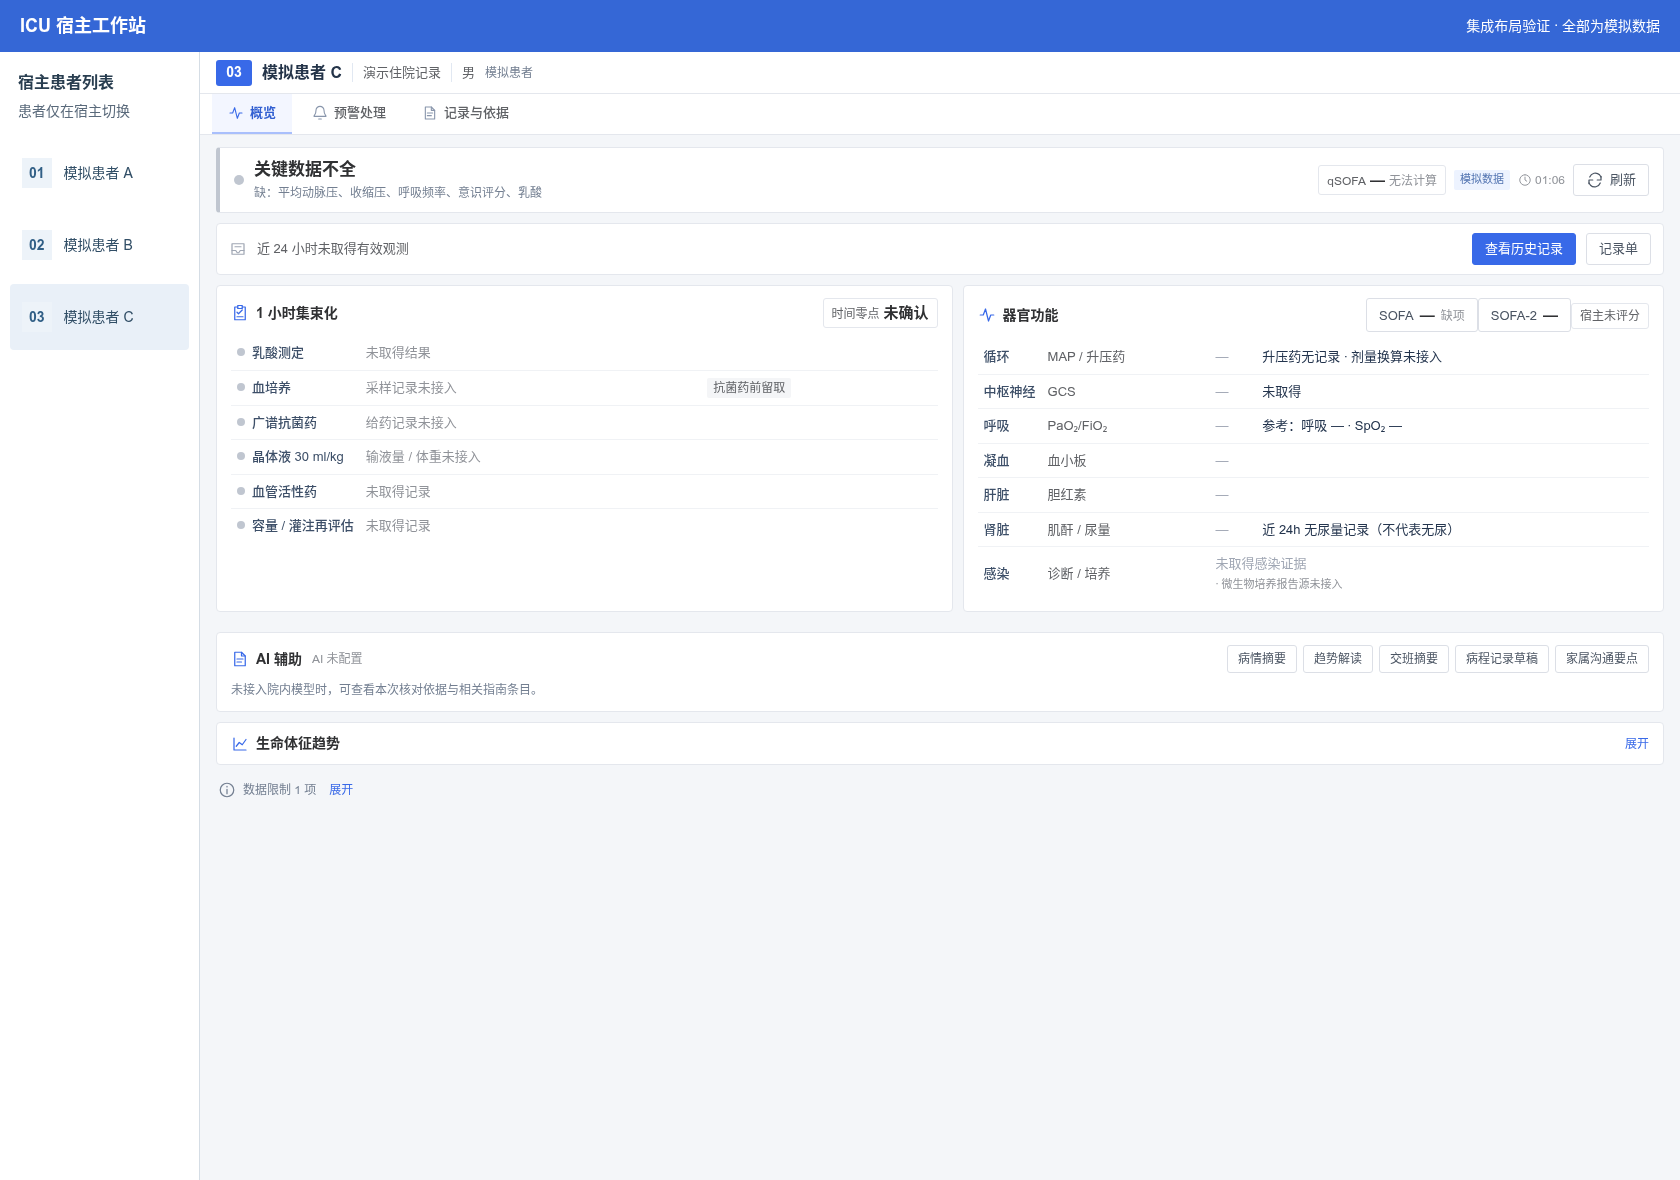
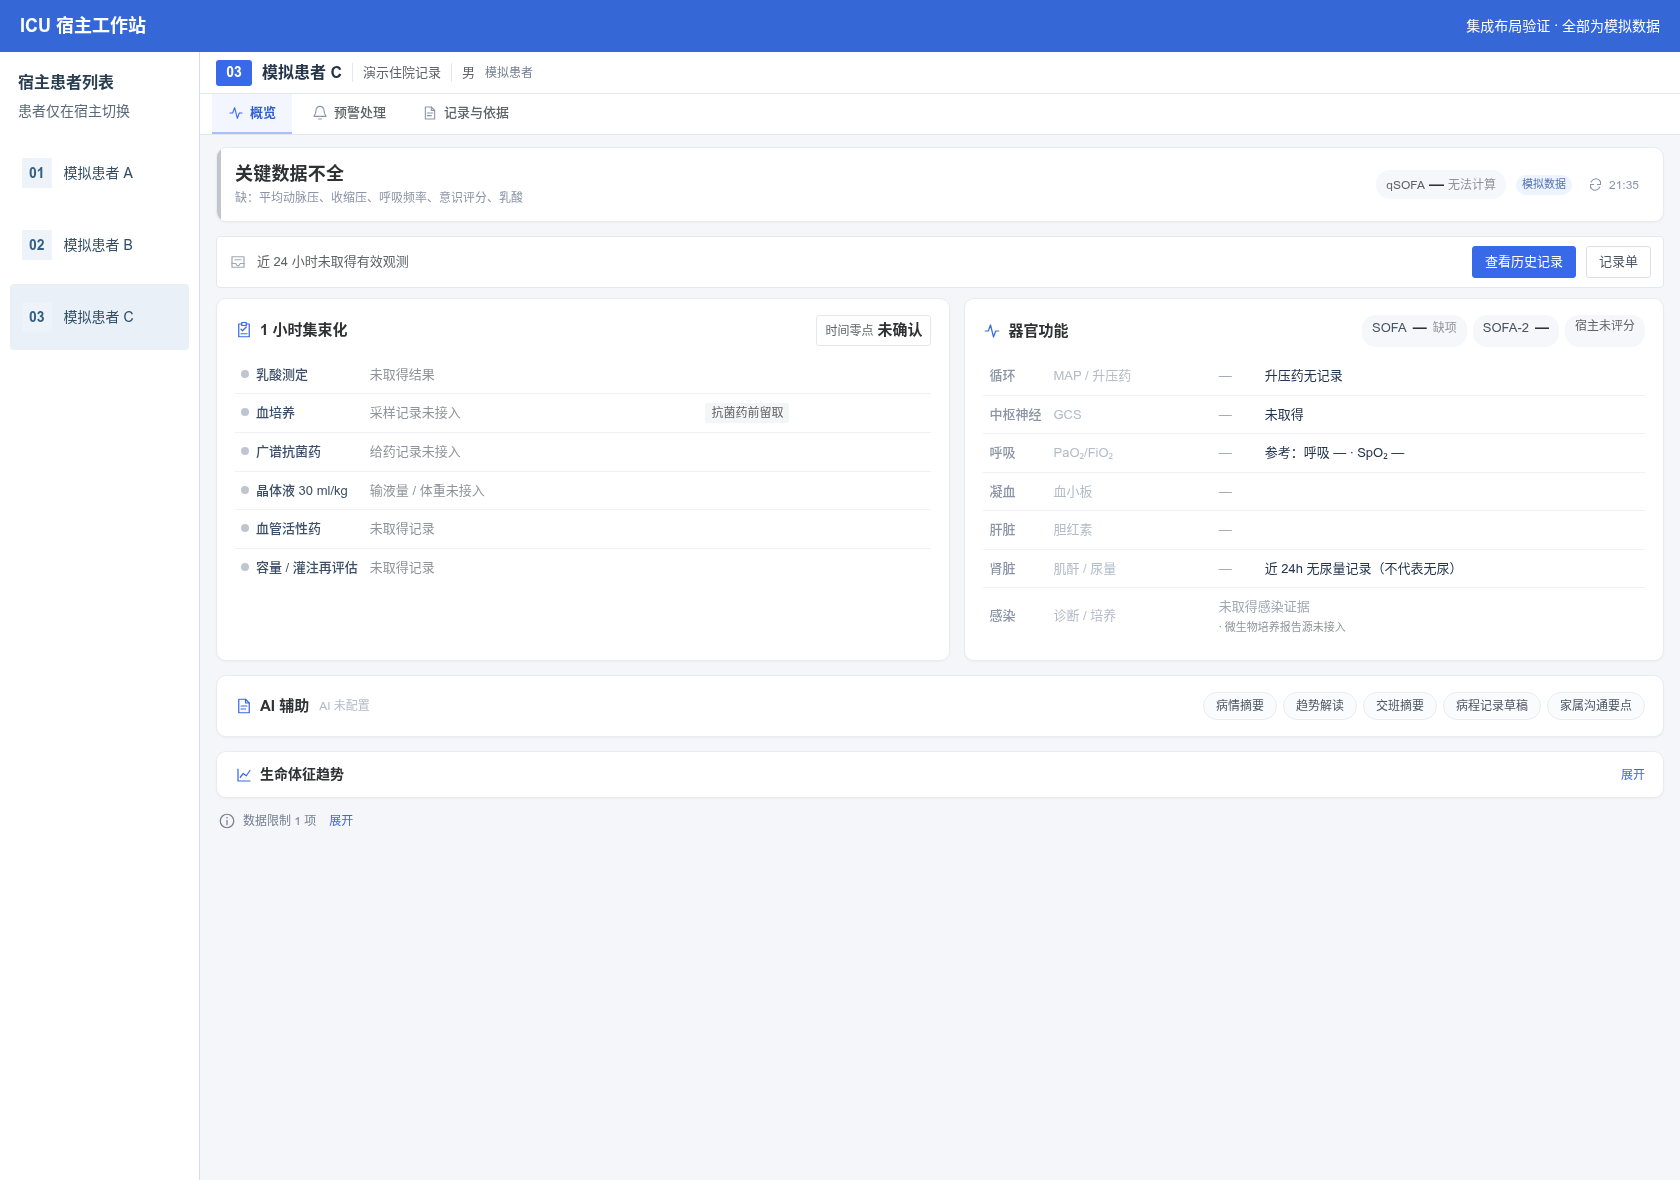
概览页视觉减负：标题只列前 3 项异常、去掉重复的 ICU-05 头部标签、刷新合并为图标；指标卡去掉常规时间脚注（仅超 60 分钟显示）、升压药短句、白底细色条；Bundle 表格去掉单元格时间与截止时间（移入悬停提示）；器官功能/AI 卡片降噪；统一圆角、留白与弱化次要文字

diff --git a/frontend/src/sepsis-panel.ts b/frontend/src/sepsis-panel.ts
@@ -17,7 +17,7 @@ export interface SepsisStatus {
 }
 interface Tile {
   code: string; label: string; unit: string; value: number | null; time: string | null; level: Level; word: string;
-  delta: number | null; spark: string; sub: string; evidence: Evidence | null; candidate: Evidence | null;
+  delta: number | null; spark: string; sub: string; subTip?: string; evidence: Evidence | null; candidate: Evidence | null;
 }
 interface BundleRow { key: string; name: string; state: 'done' | 'warn' | 'none' | 'info'; text: string; time: string | null; hint: string; tip: string; }
 interface OrganRow { system: string; item: string; value: string; level: Level; note: string; evidence: Evidence | null; }
@@ -54,15 +54,13 @@ const units: Record<string, string> = { MAP: 'mmHg', SBP: 'mmHg', LACTATE: 'mmol
         <div><h1>{{ headline }}</h1><p *ngIf="headDetail">{{ headDetail }}</p></div>
       </div>
       <div class="sx-head-side">
-        <span class="sx-chip i5-head" *ngIf="icu05?.available && (icu05!.status === 'septic_shock' || icu05!.status === 'suspected_review')" [attr.data-tone]="icu05!.status === 'septic_shock' ? 'critical' : 'abnormal'">ICU-05 {{ icu05!.statusLabel }}</span>
         <span class="sx-chip" *ngIf="data?.available" [title]="data!.qsofaNote || ''">qSOFA <b>{{ data!.qsofa ?? '—' }}</b><small *ngIf="data!.qsofa !== null">/3</small><small *ngIf="data!.qsofa === null">无法计算</small></span>
         <button class="sx-pending alert" *ngIf="alertTotal" (click)="openAlerts.emit()"><ui-icon name="bell"/>{{ alertTotal }} 条预警待处理</button>
         <button class="sx-pending" *ngIf="taskTotal" (click)="openTasks.emit()"><ui-icon name="clipboard"/>{{ taskTotal }} 项任务待执行</button>
         <span class="sx-chip warn" *ngIf="alertsError" role="status">预警读取失败</span>
         <span class="sx-chip warn" *ngIf="tasksError" role="status">任务读取失败</span>
         <span class="sample-badge" *ngIf="data?.simulated">模拟数据</span>
-        <span class="sx-time" *ngIf="updatedAt"><ui-icon name="clock"/>{{ updatedAt | date:'HH:mm' }}</span>
-        <button (click)="load()" [disabled]="loading" aria-label="刷新数据"><ui-icon name="refresh"/>{{ loading ? '读取中…' : '刷新' }}</button>
+        <button class="sx-refresh" (click)="load()" [disabled]="loading" [class.spin]="loading" aria-label="刷新数据" [title]="loading ? '读取中…' : (updatedAt ? '更新于 ' + (updatedAt | date:'HH:mm') + '，点击刷新' : '刷新')"><ui-icon name="refresh"/><span *ngIf="updatedAt">{{ updatedAt | date:'HH:mm' }}</span></button>
       </div>
     </header>
     <div class="review-state" role="alert" *ngIf="error || (data && !data.available)"><ui-icon name="info"/><strong>数据暂不可用</strong><span>{{ error || data?.message || '请刷新重试' }}</span></div>
@@ -70,12 +68,12 @@ const units: Record<string, string> = { MAP: 'mmHg', SBP: 'mmHg', LACTATE: 'mmol
     <p class="review-inline-error" role="alert" *ngIf="observationsError"><ui-icon name="info"/>{{ observationsError }} <button (click)="load()">重试</button></p>
 
     <section class="sx-vitals" *ngIf="data?.available && hasAnyValue" aria-label="关键指标">
-      <button class="sx-tile" *ngFor="let t of tiles" [attr.data-level]="t.level" [class.candidate]="!t.evidence && t.candidate" (click)="selected = t.evidence || t.candidate" [disabled]="!t.evidence && !t.candidate" [attr.aria-label]="t.label + ' ' + (t.value ?? '无记录')">
+      <button class="sx-tile" *ngFor="let t of tiles" [title]="t.time ? '记录于 ' + (t.time | date:'MM-dd HH:mm') + ' · ' + ago(t.time) : ''" [attr.data-level]="t.level" [class.candidate]="!t.evidence && t.candidate" (click)="selected = t.evidence || t.candidate" [disabled]="!t.evidence && !t.candidate" [attr.aria-label]="t.label + ' ' + (t.value ?? '无记录')">
         <span class="sx-tile-name">{{ t.label }}<em *ngIf="t.word">{{ t.word }}</em><small class="sx-ok" *ngIf="!t.word && t.level === 'normal'">正常</small></span>
         <span class="sx-tile-value"><b>{{ t.value ?? '—' }}</b><small>{{ t.unit }}</small><i class="sx-delta" *ngIf="t.delta !== null && t.delta !== 0">{{ t.delta > 0 ? '↑' : '↓' }}{{ abs(t.delta) }}</i></span>
         <svg class="sx-spark" *ngIf="t.spark" viewBox="0 0 100 24" preserveAspectRatio="none" aria-hidden="true"><path [attr.d]="t.spark"/></svg>
-        <span class="sx-tile-foot"><ng-container *ngIf="t.time">{{ t.time | date:'HH:mm' }} · {{ ago(t.time) }}</ng-container><ng-container *ngIf="!t.time && t.candidate">报告 {{ t.candidate.value }} · 归属未确认</ng-container><ng-container *ngIf="!t.time && !t.candidate">24h 内无有效记录</ng-container></span>
-        <span class="sx-tile-sub" *ngIf="t.sub">{{ t.sub }}</span>
+        <span class="sx-tile-foot" *ngIf="!t.time || stale(t.time)" [class.stale]="t.time"><ng-container *ngIf="t.time">{{ t.time | date:'HH:mm' }} · {{ ago(t.time) }}</ng-container><ng-container *ngIf="!t.time && t.candidate">报告 {{ t.candidate.value }} · 归属未确认</ng-container><ng-container *ngIf="!t.time && !t.candidate">24h 内无有效记录</ng-container></span>
+        <span class="sx-tile-sub" *ngIf="t.sub" [title]="t.subTip || t.sub">{{ t.sub }}</span>
       </button>
     </section>
     <div class="sx-empty-bar" *ngIf="data?.available && !hasAnyValue">
@@ -91,7 +89,7 @@ const units: Record<string, string> = { MAP: 'mmHg', SBP: 'mmHg', LACTATE: 'mmol
           <tr *ngFor="let b of bundle" [attr.data-state]="b.state" [title]="b.tip">
             <th scope="row"><i class="sx-dot"></i>{{ b.name }}</th>
             <td class="sx-b-text">{{ b.text }}</td>
-            <td class="sx-b-time">{{ b.time ? (b.time | date:'HH:mm') + ' · ' + ago(b.time) : '' }}</td>
+            <td class="sx-b-time" [title]="b.time ? ago(b.time) : ''">{{ b.time ? (b.time | date:'HH:mm') : '' }}</td>
             <td class="sx-b-hint"><span *ngIf="b.hint">{{ b.hint }}</span></td>
           </tr>
         </tbody></table>
@@ -294,7 +292,7 @@ export class SepsisPanel implements OnChanges, OnDestroy {
     const flagged = this.tiles.filter(t => t.level === 'critical' || t.level === 'abnormal').sort((a, b) => levelRank[a.level] - levelRank[b.level]);
     if (flagged.length) {
       this.headLevel = flagged[0].level;
-      this.headline = flagged.slice(0, 4).map(t => `${shortName[t.code] || t.label} ${t.value} ${t.word}`.trim()).join(' · ');
+      this.headline = flagged.slice(0, 3).map(t => `${shortName[t.code] || t.label} ${t.value} ${t.word}`.trim()).join(' · ');
     } else if (d.missingFeatures.length) { this.headLevel = 'unknown'; this.headline = '关键数据不全'; }
     else { this.headLevel = 'normal'; this.headline = '主要指标未超出提示阈值'; }
     const missing = d.missingFeatures.map((code) => {
@@ -302,7 +300,7 @@ export class SepsisPanel implements OnChanges, OnDestroy {
       if (code === 'INFECTION_EVIDENCE') return '感染证据';
       return featureLabel(code);
     });
-    this.headDetail = missing.length ? '缺：' + missing.join('、') : flagged.length > 4 ? '另有 ' + (flagged.length - 4) + ' 项异常' : '';
+    this.headDetail = missing.length ? '缺：' + missing.join('、') : flagged.length > 3 ? '另有 ' + (flagged.length - 3) + ' 项异常' : '';
     this.bundle = this.bundleRows(d, latest, candidates, asOf);
     this.organs = this.organRows(d, latest);
     const sofa = this.series('SOFA', 'score', 0, 24, asOf);
@@ -378,7 +376,8 @@ export class SepsisPanel implements OnChanges, OnDestroy {
     let sub = '';
     if (sbpCode) { const s = latest.get(sbpCode) || this.evidenceFromObs(sbpCode); sub = '收缩压 ' + (s ? s.value : '—'); }
     let lacLabel = '';
-    if (base === 'MAP') sub += (sub ? ' · ' : '') + this.vasoText();
+    let subTip = '';
+    if (base === 'MAP') { const v = this.vasoText(); subTip = sub + ' · ' + v; sub += (sub ? ' · ' : '') + this.vasoShort(v); }
     // 13: the ICU-05 initial lactate can differ from the latest one; label both.
     if (code === 'LACTATE' && this.icu05?.gate) {
       const k1 = this.icu05.gate.shock.find(i => i.code === 'K1');
@@ -386,13 +385,19 @@ export class SepsisPanel implements OnChanges, OnDestroy {
     }
     const delta = value !== null && prev !== null && e && pts.at(-1)?.eventTime === e.eventTime ? Math.round((value - prev) * 10) / 10 : null;
     return { code, label: lacLabel || tileName[code] || featureLabel(code), unit, value, time: e?.eventTime || null, level: level(code, value), word: value === null ? '' : direction(code, value),
-      delta, spark: this.sparkPath(pts), sub, evidence: e, candidate: e ? null : candidates.get(code) || null };
+      delta, spark: this.sparkPath(pts), sub, subTip, evidence: e, candidate: e ? null : candidates.get(code) || null };
   }
 
   /**
    * One vasopressor statement for the whole screen: bedside VASOPRESSOR_ACTIVE and the ICU-05 execution sheet (drugExe)
    * are different sources, so a disagreement is shown instead of two contradictory sentences.
    */
+  /** Tile-sized vasopressor wording; the full sentence (drug, source) stays in the tooltip and organ card. */
+  vasoShort(full: string): string {
+    if (full.startsWith('升压药 执行单有记录')) return full.includes('床旁记录为未用') ? '升压药记录不一致' : '升压药有记录';
+    return full.replace(/ · .*$/, '');
+  }
+  stale(t: string) { const a = Date.parse(this.asOf) || Date.now(); return a - Date.parse(t) > 60 * 60000; }
   vasoText(): string {
     const bedside = this.data?.vasopressorActive;
     const s4 = this.icu05?.available ? this.icu05.gate?.organ.find(i => i.code === 'S4') : undefined;
@@ -609,7 +614,7 @@ export class SepsisPanel implements OnChanges, OnDestroy {
           ? maps.map(m => (shortName[m.code] || 'MAP') + ' ' + m.value).join('，')
           : '—',
         level: worstMap?.level || 'none',
-        note: vaso + ' · 剂量换算未接入',
+        note: vaso,
         evidence: worstMap?.evidence || null,
       },
       {

diff --git a/frontend/src/host-clinical-ui.css b/frontend/src/host-clinical-ui.css
@@ -136,3 +136,40 @@ ai-assist-card{display:block;grid-column:1/-1}
 .ai-suggest{display:flex;flex-wrap:wrap;gap:6px;margin-bottom:6px}.ai-suggest button{font-size:12px;padding:2px 10px;min-height:24px;border-radius:12px;background:#f5f7fa;border:1px solid #e4e7ed;color:#4b5565}
 .al-ai{margin-top:6px;padding:8px 10px;border-radius:6px;background:#f8fafc;border:1px solid #edf0f5}.al-ai .ai-body{margin-top:2px}.al-ward{margin:0 0 10px;padding:10px 12px}
 .al-ai-btn{margin-left:14px}
+/* v10 declutter: fewer borders and colours, more whitespace; secondary details move into tooltips. Presentation only. */
+.sx-overview{--soft:#8a94a6;--line:#eef1f5}
+.icu-embed .sx-overview .review-card,.icu-embed .sx-overview .sx-head{border:1px solid #e8ecf2;border-radius:10px;box-shadow:0 1px 2px rgba(31,45,61,.04)}
+.icu-embed .sx-overview .sx-grid{gap:14px}.icu-embed .sx-overview .sx-grid .review-card{padding:16px 18px;margin-bottom:0}.icu-embed .sx-overview>.review-card,.icu-embed .sx-overview>details.review-card{margin-top:14px;margin-bottom:0}
+.sx-overview .review-card-title{margin-bottom:10px}.sx-overview .review-card-title h2{font-size:15px}
+.sx-head{padding:14px 18px;margin-bottom:14px;border-left-width:1px!important;position:relative;overflow:hidden}
+.sx-head::before{content:'';position:absolute;left:0;top:0;bottom:0;width:4px;background:#c0c6d0}.sx-head[data-level=critical]::before{background:var(--crit)}.sx-head[data-level=abnormal]::before{background:var(--abn)}.sx-head[data-level=normal]::before{background:var(--host-blue)}
+.sx-head[data-level=critical],.sx-head[data-level=abnormal]{background:#fff}
+.sx-head-main h1{font-size:18px;letter-spacing:.2px}.sx-head-main p{color:var(--soft)}.sx-level-mark{display:none}
+.sx-head-side{gap:10px}.sx-head .sx-chip{border:0;background:#f5f7fa;border-radius:14px;padding:3px 10px}
+.icu-embed .sx-refresh{border:0;background:transparent;color:var(--soft);padding:4px 6px;font-size:12px;min-height:28px}.icu-embed .sx-refresh:hover:not(:disabled){background:#f3f6ff;color:var(--host-blue)}.sx-refresh ui-icon{width:15px;height:15px}.sx-refresh.spin ui-icon{animation:sxspin 1s linear infinite}@keyframes sxspin{to{transform:rotate(360deg)}}
+.icu-embed .sx-pending{border-radius:14px}.icu-embed .sample-badge{border-radius:10px}
+.sx-vitals{gap:12px;margin-bottom:14px;grid-template-columns:repeat(auto-fit,minmax(140px,1fr))}
+.icu-embed .sx-tile,.icu-embed .sx-tile[data-level=critical],.icu-embed .sx-tile[data-level=abnormal]{min-height:0;padding:12px 14px 10px;gap:4px;background:#fff;border:1px solid #e8ecf2;border-radius:10px;box-shadow:0 1px 2px rgba(31,45,61,.04)}
+.icu-embed .sx-tile[data-level=critical]{background:#fffafa}.sx-tile[data-level=critical]::before,.sx-tile[data-level=abnormal]::before{width:3px;top:12px;bottom:12px;border-radius:0 2px 2px 0}
+.icu-embed .sx-tile:hover:not(:disabled){border-color:#c9d6f5;background:#fff}
+.sx-tile-name{color:var(--soft)}.sx-tile-name em{font-size:12px}.sx-tile-name small.sx-ok{color:#b4bcc8}
+.sx-tile-value b{font-size:30px}.sx-tile-value small{color:#b4bcc8;font-size:12px}.sx-delta{color:#b4bcc8}
+.sx-spark{height:18px;opacity:.85}
+.sx-tile-foot{color:#b4bcc8}.sx-tile-foot.stale{color:#ad6526}
+.sx-tile-sub{border-top:0;padding-top:0;color:var(--soft);white-space:nowrap;overflow:hidden;text-overflow:ellipsis}
+.sx-table th,.sx-table td{padding:9px 6px;border-bottom-color:var(--line)}
+.sx-organ .sx-o-item,.sx-o-note{color:var(--soft)}.sx-organ tr[data-level=none] th{color:#8a94a6;font-weight:500}.sx-organ tr[data-level=none] .sx-o-item{color:#b4bcc8}
+.sx-organ tr[data-level=critical] th,.sx-organ tr[data-level=abnormal] th{box-shadow:none;padding-left:6px}
+.sx-organ tr[data-level=critical] th::before,.sx-organ tr[data-level=abnormal] th::before{content:'';display:inline-block;width:6px;height:6px;border-radius:50%;margin-right:6px;vertical-align:2px;background:var(--crit)}.sx-organ tr[data-level=abnormal] th::before{background:var(--abn)}
+.sx-sofa-chips{display:inline-flex;gap:6px;flex-wrap:wrap}.sx-organ .sx-chip{border:0;background:#f5f7fa;border-radius:14px;padding:2px 10px}.sx-organ .sx-chip b{font-size:14px}.sx-organ .sx-chip.on{background:#edf3ff;color:var(--host-blue)}
+.i5 .sx-chip{border-radius:14px}
+.i5-gate{gap:6px;margin:4px 0 12px;font-size:12px}.i5-gate em{color:#b4bcc8}.i5-gate i[data-v=y]{background:none;padding:0;color:#ad4e00}.i5-gate i[data-v=n]{color:var(--soft)}.i5-gate i[data-v=u]{color:#c3c9d3}
+.i5-table thead th{border-bottom:1px solid var(--line);padding:6px 4px 8px}.icu-embed .i5-table thead th{background:transparent}
+.i5-wstate{border-radius:10px;padding:0 8px;font-size:11px}.i5-table thead small.i5-why{font-size:11px;color:#c4474d}
+.i5-table tbody th{font-weight:500;color:#4b5565}.i5-table td b{font-weight:600}
+.i5-legend{color:#b4bcc8;margin-top:10px}.i5-limits{margin-top:6px}
+.sx-ai .review-card-title{margin-bottom:0}.ai-label{color:#b4bcc8}
+.icu-embed .ai-actions button{border-color:#e8ecf2;border-radius:14px;color:#4b5565;background:#fafbfd;min-height:28px;padding:3px 12px}.icu-embed .ai-actions button:hover:not(:disabled){background:#edf3ff;border-color:#c6d6ff}
+.ai-idle{color:#b4bcc8;margin-top:8px}.ai-chat{border-top-color:var(--line)}
+.icu-embed .sx-fold>summary{padding:12px 18px}.sx-limits{margin-top:10px}
+@media (max-width:520px){.sx-vitals{gap:8px}.icu-embed .sx-tile{padding:10px 12px}.sx-tile-value b{font-size:24px}.icu-embed .sx-overview .sx-grid .review-card{padding:12px}}

diff --git a/frontend/src/icu05-card.ts b/frontend/src/icu05-card.ts
@@ -66,15 +66,14 @@ interface Row { code: string; name: string; cells: (Cell | null)[]; }
     </ng-container>
     <ng-template #grid>
       <table class="sx-table i5-table"><thead><tr><th scope="col"></th>
-        <th scope="col" *ngFor="let w of data.windows" [attr.data-state]="w.state" [title]="windowTip(w)">
-          <span class="i5-wkey">{{ w.key }}</span><span class="i5-wstate">{{ stateLabel(w) }}</span><small>截止 {{ w.deadline | date:'HH:mm' }}</small>
-          <small class="i5-why" *ngIf="w.state === 'not_met' || w.state === 'unknown'">{{ windowTip(w) }}</small>
+        <th scope="col" *ngFor="let w of data.windows" [attr.data-state]="w.state" [title]="'截止 ' + (w.deadline | date:'MM-dd HH:mm') + (windowTip(w) ? ' · ' + windowTip(w) : '')">
+          <span class="i5-wkey">{{ w.key }}</span><span class="i5-wstate">{{ stateLabel(w) }}</span>          <small class="i5-why" *ngIf="w.state === 'not_met' || w.state === 'unknown'">{{ windowTip(w) }}</small>
         </th></tr></thead>
         <tbody><tr *ngFor="let r of rows"><th scope="row">{{ r.name }}</th>
-          <td *ngFor="let c of r.cells" [attr.data-tone]="c?.tone || 'none'" [title]="c?.tip || ''" [attr.aria-label]="r.name + ' ' + (c ? toneLabel[c.tone] + ' ' + (c.tip || '') : '无')"><ng-container *ngIf="c"><b>{{ c.mark }}</b><small *ngIf="c.time">{{ c.time | date:'HH:mm' }}</small></ng-container></td>
+          <td *ngFor="let c of r.cells" [attr.data-tone]="c?.tone || 'none'" [title]="c?.tip || ''" [attr.aria-label]="r.name + ' ' + (c ? toneLabel[c.tone] + ' ' + (c.tip || '') : '无')"><ng-container *ngIf="c"><b>{{ c.mark }}</b></ng-container></td>
         </tr></tbody>
       </table>
-      <p class="i5-legend" aria-label="图例"><span data-tone="done"><b>✓</b>完成</span><span data-tone="fail"><b>×</b>未完成</span><span data-tone="wait"><b>待</b>时窗未结束</span><span data-tone="none"><b>—</b>无法判定</span><span data-tone="flag"><b>异常</b>触发项成立</span><span class="i5-legend-note">各时窗均自 T0 起独立判定；悬停单元格查看依据</span></p>
+      <p class="i5-legend" aria-label="图例" title="各时窗均自 T0 起独立判定；悬停单元格查看依据与时间"><span data-tone="done"><b>✓</b>完成</span><span data-tone="fail"><b>×</b>未完成</span><span data-tone="wait"><b>待</b>时窗未结束</span><span data-tone="none"><b>—</b>无法判定</span><span data-tone="flag"><b>异常</b>触发项成立</span></p>
     </ng-template>
     <details class="sx-limits i5-limits" *ngIf="data.limitations?.length"><summary><ui-icon name="info"/>判定规则与数据来源</summary>
       <ul><li>{{ data.ruleSource }}；{{ data.gate?.rule || '' }}。“—”表示无法判定，不按未完成计。</li><li *ngIf="data.pool">质控分母：{{ data.pool.rule }}（本例：{{ data.pool.eligible === true ? '符合' : data.pool.eligible === false ? '不符合' : '无法确认' }}）</li><li *ngFor="let l of data.limitations">{{ l }}</li></ul>
@@ -100,7 +99,8 @@ export class Icu05Card implements OnChanges {
     const i = w.items.find(x => x.code === code);
     if (!i) return null;
     const trigger = TRIGGERS.has(code);
-    const tip = [i.label, i.detail, i.reason ? icu05Reason[i.reason] || i.reason : ''].filter(Boolean).join(' · ');
+    const at = i.time ? new Date(i.time).toTimeString().slice(0, 5) : '';
+    const tip = [i.label, i.detail, at ? '时间 ' + at : '', i.reason ? icu05Reason[i.reason] || i.reason : ''].filter(Boolean).join(' · ');
     // 补液：格内写出具体量；仅未达标打红 ×，达标写量 + ✓，量不全不打 ×
     if (code === 'C3') {
       const vol = (i.detail || '').trim();

diff --git a/frontend/src/ai-assist-card.ts b/frontend/src/ai-assist-card.ts
@@ -14,12 +14,12 @@ interface Turn { q: string; brief: AiBrief | null; error: string; busy: boolean;
   template: `<section class="review-card sx-ai" aria-label="AI 辅助">
     <div class="review-card-title">
       <h2><ui-icon name="file"/>AI 辅助</h2>
-      <span class="ai-label">{{ configured ? '生成内容需医生核对' : 'AI 未配置' }}</span>
+      <span class="ai-label" [title]="configured ? '仅依据本页规则结果、近 24 小时记录与指南条目' : '未接入院内模型时，可查看本次核对依据与相关指南条目'">{{ configured ? '生成内容需医生核对' : 'AI 未配置' }}</span>
       <span class="ai-actions">
         <ng-container *ngFor="let k of kinds"><button type="button" *ngIf="!k.needsIcu05 || icu05Available" [class.on]="brief?.kind === k.kind" (click)="run(k.kind)" [disabled]="!!busy" [title]="k.hint">{{ busy === k.kind ? '生成中…' : k.label }}</button></ng-container>
       </span>
     </div>
-    <p class="ai-idle" *ngIf="!brief && !busy && !error && !turns.length">{{ configured ? '按需生成，仅依据本页规则结果、近 24 小时记录与指南条目；不会自动运行。也可以在下方直接提问。' : '未接入院内模型时，可查看本次核对依据与相关指南条目。' }}</p>
+    <p class="ai-idle" *ngIf="configured && !brief && !busy && !error && !turns.length">按需生成，不会自动运行。</p>
     <p class="review-inline-error" role="alert" *ngIf="error"><ui-icon name="info"/>{{ error }}</p>
     <ai-brief-view [brief]="brief" />
     <div class="ai-chat" *ngIf="configured">
